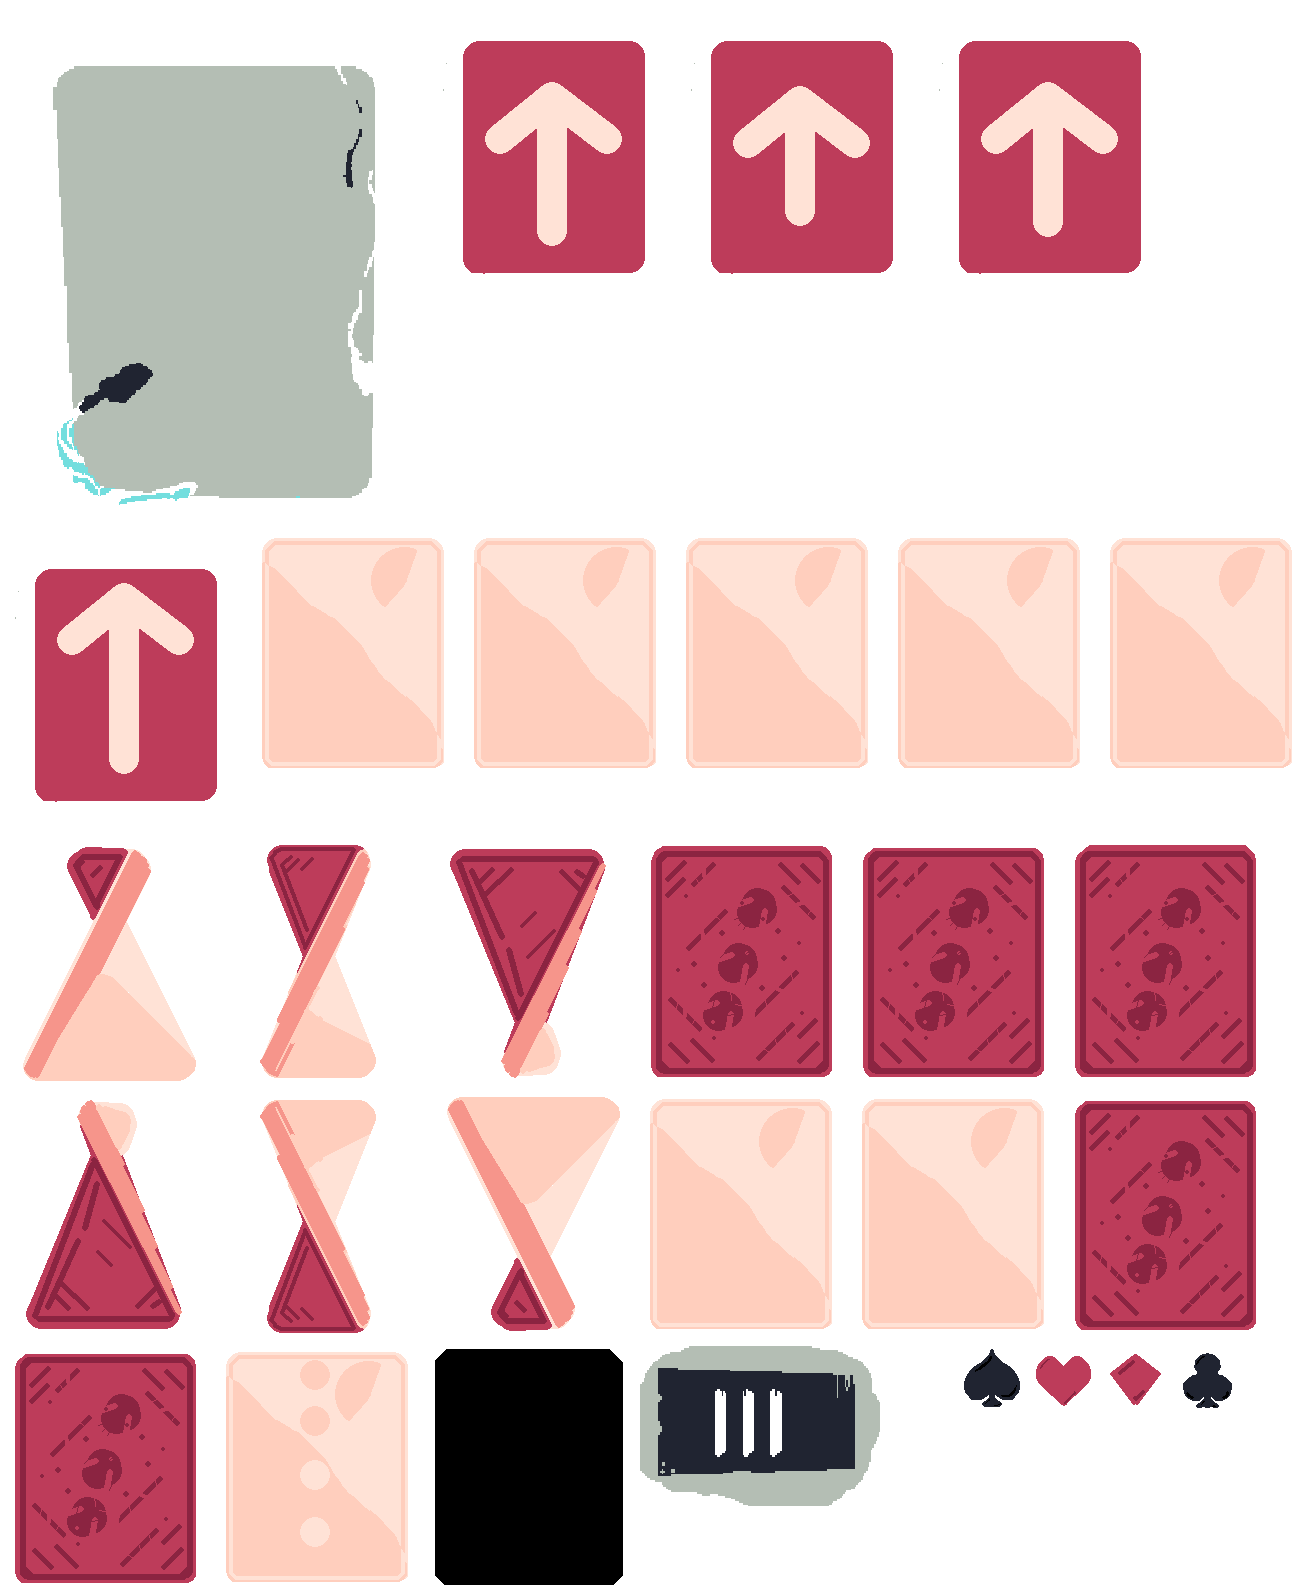
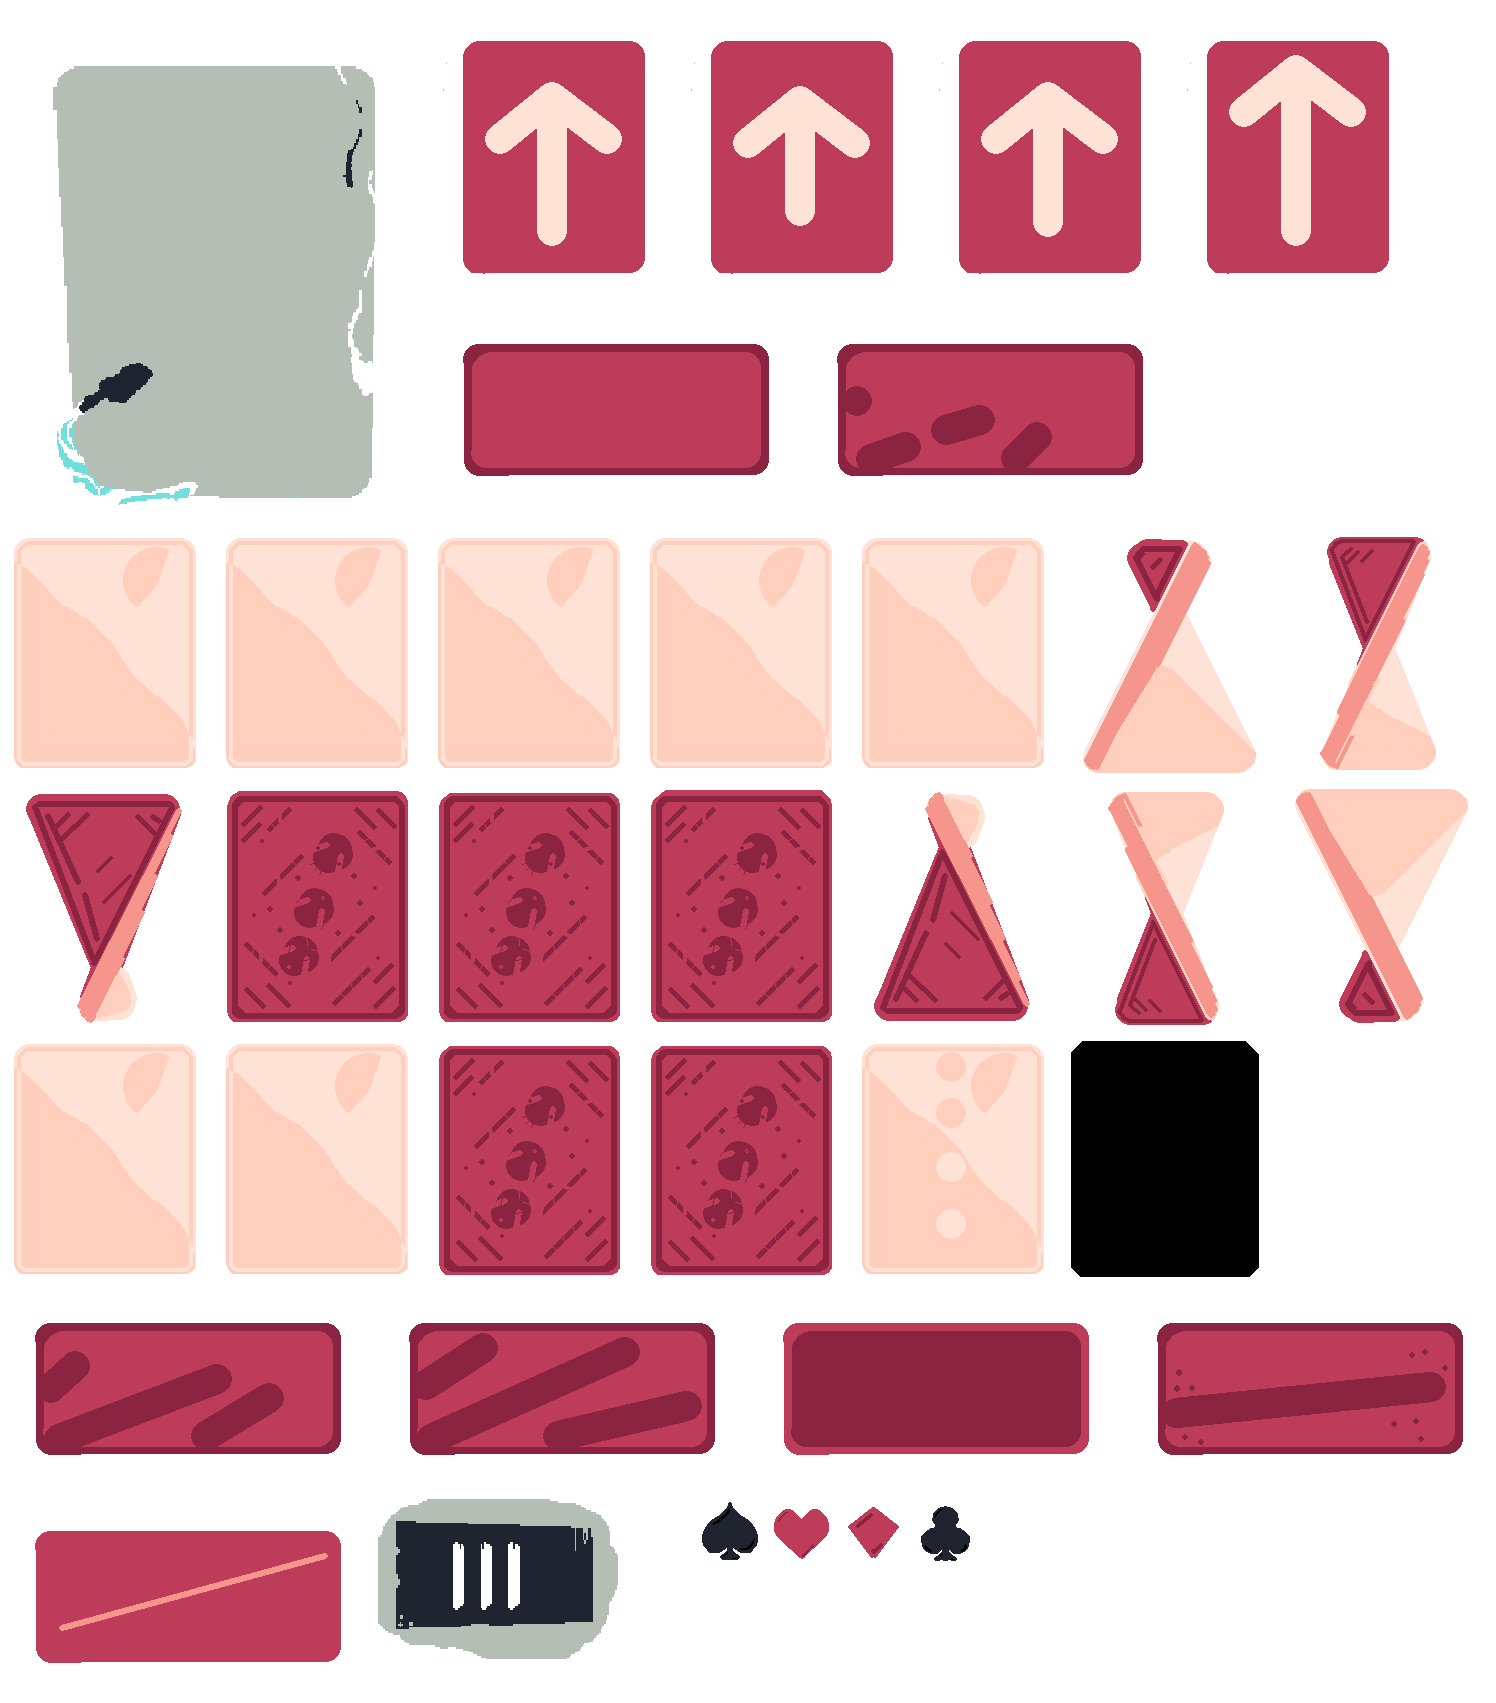
duration

diff --git a/src/anim.ts b/src/anim.ts
@@ -49,6 +49,7 @@ export class Anim extends Play {
     return this.frame?.duration
   }
 
+  _loop: boolean = false
   _reverse: boolean = false
   _on_complete?: () => void
   play_now(name: string, on_complete?: () => void, reverse: boolean = false) {
@@ -69,6 +70,11 @@ export class Anim extends Play {
     this.will_play = () => this.play_now(name, on_complete, reverse)
   }
 
+  play_o(name: string, options: { loop?: boolean }) {
+    this._loop = options.loop ?? false
+    this.play_now(name)
+  }
+
   _update() {
 
     const frames_length = this.animation?.frames.length
@@ -83,7 +89,11 @@ export class Anim extends Play {
         if (this._reverse) {
           this._frame--;
           if (this._frame < 0) {
-            this._frame = frames_length - 1
+            if (this._loop) {
+              this._frame = frames_length - 1
+            } else {
+              this._frame = 0
+            }
             if (this._on_complete) {
               this._on_complete()
             }
@@ -95,7 +105,11 @@ export class Anim extends Play {
         } else {
           this._frame++;
           if (this._frame >= frames_length) {
-            this._frame = 0
+            if (this._loop) {
+              this._frame = 0
+            } else {
+              this._frame = frames_length - 1
+            }
             if (this._on_complete) {
               this._on_complete()
             }

diff --git a/src/ui.ts b/src/ui.ts
@@ -20,8 +20,6 @@ import { Text, RectView, Clickable, Background, MainMenu } from './game'
 
 type ButtonData = {
   text: string,
-  w: number,
-  h: number,
   on_click: () => void
 }
 
@@ -33,20 +31,30 @@ export class Button extends Play {
 
   _init() {
 
-    let r = this.make(RectView, Vec2.make(0, 0), {
-      w: this.data.w,
-      h: this.data.h,
-      color: Color.black
+    let bg = this.make(Anim, Vec2.make(0, 0), {
+      name: 'button_bg'
     })
+    bg.origin = Vec2.make(366, 200).scale(1/2)
 
-    let _ = this.make(Text, Vec2.make(this.data.w / 2, 0), {
+    let _ = this.make(Text, Vec2.make(0, -32), {
       text: this.data.text,
       center: true
     })
 
     let self = this
-    this.make(Clickable, Vec2.make(4, 4), {
-      rect: Rect.make(0, 0, this.data.w - 8, this.data.h - 8),
+    this.make(Clickable, Vec2.make(-366 + 80, -200 + 80).scale(1/2), {
+      rect: Rect.make(0, 0, 366 - 80, 200 - 80),
+      on_hover() {
+        bg.play_o('hover', { loop: false })
+      },
+      on_hover_end() {
+        bg.play('hover', () => {
+          bg.play('idle')
+        }, true)
+      },
+      on_click_begin() {
+        bg.play_o('click', { loop: false })
+      },
       on_click() {
         self.data.on_click()
       }

diff --git a/_pack.js b/_pack.js
@@ -11,10 +11,11 @@ export default async function pack() {
     ase_files(_)
     .then(_ => _.map(({name, ase}) => {
 
+      let frames = ase.frames.map(frame => ({duration: frame.duration}))
       let packs = ase.frames.map(frame => packer.add(frame.image))
       let { tags } = ase
 
-      sprites.push({ name, packs, tags })
+      sprites.push({ name, packs, tags, frames })
     }))))
 
 
@@ -22,10 +23,10 @@ export default async function pack() {
 
   packer.pack()
 
-  sprites = sprites.map(({ name, packs, tags }) => ({
+  sprites = sprites.map(({ name, packs, tags, frames }) => ({
     name,
     tags,
-    packs: packs.map(_ => ({ frame: _.frame, packed: _.packed }))
+    packs: packs.map((_,i) => ({ frame: _.frame, packed: _.packed, meta: frames[i] }))
   }))
 
 
@@ -51,7 +52,6 @@ function ase_files(folder) {
               throw err
             }
             let name = file.split('.')[0]
-            console.log(name, data.length)
             _resolve({ name, ase: aseprite(data)})
           })
         }))).then(resolve)

diff --git a/src/solitaire.ts b/src/solitaire.ts
@@ -28,6 +28,8 @@ import { Tween } from './tween'
 
 import { SolitaireGame } from './solitaire_game'
 
+import { Button } from './ui'
+
 type CardData = {
   card?: OCard,
   back?: true
@@ -633,6 +635,14 @@ export class SolitairePlay extends Play {
     this.make(Background, Vec2.zero, undefined)
 
     let game = this.make(SolitaireGame, Vec2.make(0, 0), {})
+
+    this.make(Button, Vec2.make(160, 1000), {
+      text: 'undo',
+      on_click() {
+        console.log('undo')
+      }
+    })
+
 
     let overlay = this.make(RectView, Vec2.zero, {
       w: 1920,

diff --git a/src/content.ts b/src/content.ts
@@ -47,11 +47,11 @@ class Content {
       let animations: Array<Animation> = []
 
       tags.forEach(tag => {
-        let duration = 100 / 1000
         let frames = []
         for (let i = tag.from; i <= tag.to; i++) {
 
           let _ = packs[i]
+          let duration = _.meta.duration/ 1000
           let framerect = Rect.make(_.frame.x, _.frame.y, _.frame.w, _.frame.h)
           let subrect = Rect.make(_.packed.x, _.packed.y, _.packed.w, _.packed.h)
 
